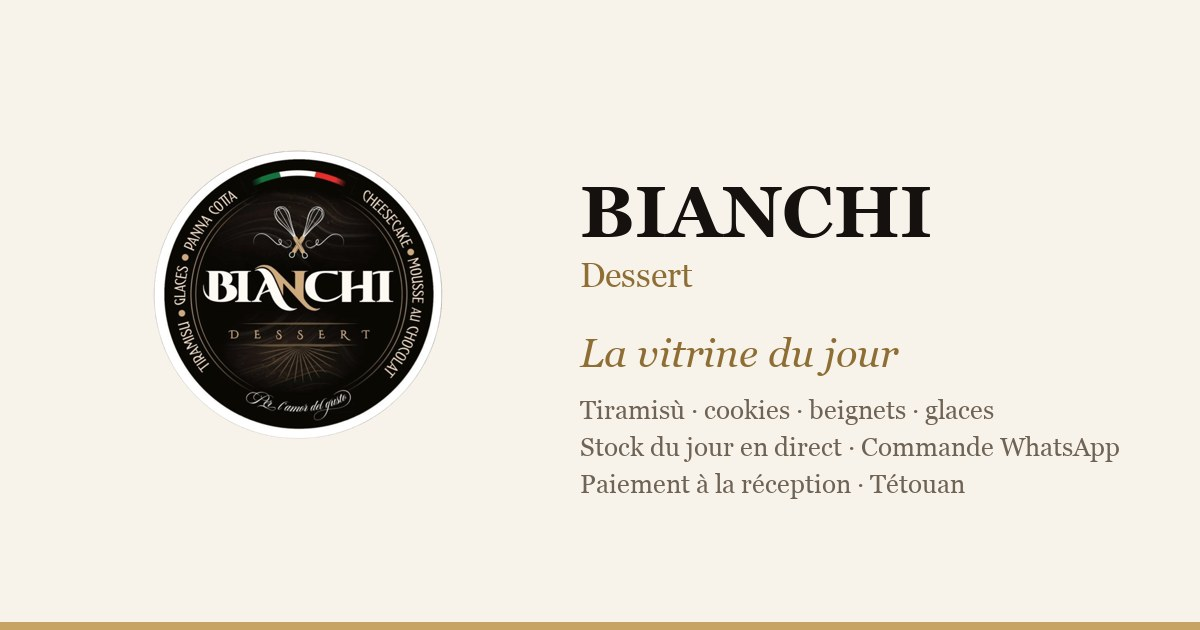
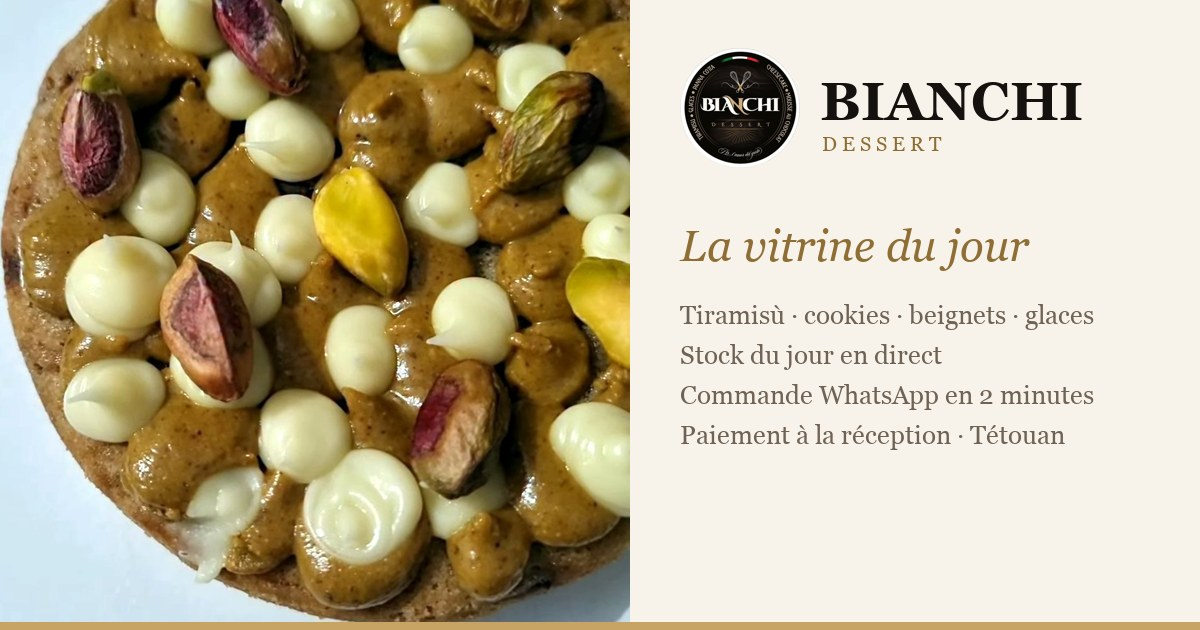
Photos produits issues des reels Instagram, horaires et adresse, image de partage

diff --git a/js/demo-data.js b/js/demo-data.js
@@ -1,14 +1,15 @@
 // Données de démonstration : le catalogue réel de Bianchi au 14/09/2026.
 // En production ces données vivent dans Supabase (voir supabase/schema.sql).
 window.BIANCHI_DEMO = {
+  version: 3,
   parametres: {
     id: 1,
     nom: "Bianchi Dessert",
     slogan: "Per l'amor del gusto",
     whatsapp: "212600000000",
-    adresse: "Tétouan",
+    adresse: "Diar Tamouda – Wiqayah, Tétouan",
     lien_maps: "",
-    horaires: "Commandes tous les jours · 10h00 – 22h00",
+    horaires: "Mardi – Dimanche · 9h – 20h",
     delai_texte: "Retrait ou livraison le jour même selon le stock",
     commandes_ouvertes: true,
     message_ferme: "Les commandes reprennent demain matin. À très vite !",
@@ -27,26 +28,26 @@ window.BIANCHI_DEMO = {
     { id: 6, nom: "Glaces & Cookies glacés", emoji: "🍨", sous_titre: "Préparés à la commande, toujours disponibles", ordre: 6, actif: true },
   ],
   produits: [
-    { id: "p01", categorie_id: 1, nom: "Charlotte aux pommes cannelle", description: "Biscuits cuillère, compotée de pommes à la cannelle et crème légère.", prix: 30, ancien_prix: null, promo_label: "Best-seller", stock: 4, suivre_stock: true, image_url: "", actif: true, ordre: 1, vedette: true },
+    { id: "p01", categorie_id: 1, nom: "Charlotte aux pommes cannelle", description: "Biscuits cuillère, compotée de pommes à la cannelle et crème légère.", prix: 30, ancien_prix: null, promo_label: "Best-seller", stock: 4, suivre_stock: true, image_url: "", actif: true, ordre: 1 },
 
-    { id: "p02", categorie_id: 2, nom: "Mini Beignet Pomme", description: "Beignet moelleux garni de compotée de pommes.", prix: 8, ancien_prix: null, promo_label: "", stock: 3, suivre_stock: true, image_url: "", actif: true, ordre: 1 },
-    { id: "p03", categorie_id: 2, nom: "Mini Beignet Nutella", description: "Beignet moelleux, cœur Nutella généreux.", prix: 8, ancien_prix: null, promo_label: "", stock: 8, suivre_stock: true, image_url: "", actif: true, ordre: 2 },
+    { id: "p02", categorie_id: 2, nom: "Mini Beignet Pomme", description: "Beignet moelleux garni de compotée de pommes.", prix: 8, ancien_prix: null, promo_label: "", stock: 3, suivre_stock: true, image_url: "assets/produits/mini-beignet-pomme.jpg", actif: true, ordre: 1 },
+    { id: "p03", categorie_id: 2, nom: "Mini Beignet Nutella", description: "Beignet moelleux, cœur Nutella généreux.", prix: 8, ancien_prix: null, promo_label: "", stock: 8, suivre_stock: true, image_url: "assets/produits/mini-beignet-nutella.jpg", actif: true, ordre: 2 },
     { id: "p04", categorie_id: 2, nom: "Mini Beignet Spéculoos", description: "Beignet moelleux, crème de spéculoos.", prix: 8, ancien_prix: null, promo_label: "", stock: 0, suivre_stock: true, image_url: "", actif: true, ordre: 3 },
     { id: "p05", categorie_id: 2, nom: "Mini Beignet Bueno", description: "Beignet moelleux, crème noisette façon Bueno.", prix: 8, ancien_prix: null, promo_label: "", stock: 2, suivre_stock: true, image_url: "", actif: true, ordre: 4 },
     { id: "p06", categorie_id: 2, nom: "Mini Beignet Pistache", description: "Beignet moelleux, crème de pistache.", prix: 13, ancien_prix: null, promo_label: "", stock: 0, suivre_stock: true, image_url: "", actif: true, ordre: 5 },
     { id: "p07", categorie_id: 2, nom: "Mini Beignet Framboise", description: "Beignet moelleux, confit de framboise.", prix: 13, ancien_prix: null, promo_label: "", stock: 0, suivre_stock: true, image_url: "", actif: true, ordre: 6 },
-    { id: "p08", categorie_id: 2, nom: "Gros Beignet Nutella", description: "Le grand format, généreusement garni de Nutella.", prix: 15, ancien_prix: null, promo_label: "", stock: 2, suivre_stock: true, image_url: "", actif: true, ordre: 7 },
+    { id: "p08", categorie_id: 2, nom: "Gros Beignet Nutella", description: "Le grand format, généreusement garni de Nutella.", prix: 15, ancien_prix: null, promo_label: "", stock: 2, suivre_stock: true, image_url: "assets/produits/gros-beignet-nutella.jpg", actif: true, ordre: 7 },
 
-    { id: "p09", categorie_id: 3, nom: "Palet Breton", description: "Sablé pur beurre, épais et friable.", prix: 15, ancien_prix: null, promo_label: "", stock: 0, suivre_stock: true, image_url: "", actif: true, ordre: 1 },
-    { id: "p10", categorie_id: 3, nom: "Cookie 3 Chocolats", description: "Chocolat noir, lait et blanc dans une pâte fondante.", prix: 25, ancien_prix: null, promo_label: "", stock: 4, suivre_stock: true, image_url: "", actif: true, ordre: 2 },
-    { id: "p11", categorie_id: 3, nom: "Cookie Praliné Noisette", description: "Cœur coulant praliné noisette maison.", prix: 27, ancien_prix: null, promo_label: "", stock: 0, suivre_stock: true, image_url: "", actif: true, ordre: 3 },
+    { id: "p09", categorie_id: 3, nom: "Palet Breton", description: "Sablé pur beurre aux amandes, épais et friable.", prix: 15, ancien_prix: null, promo_label: "", stock: 3, suivre_stock: true, image_url: "assets/produits/palet-breton.jpg", actif: true, ordre: 1 },
+    { id: "p10", categorie_id: 3, nom: "Cookie 3 Chocolats", description: "Chocolat noir, lait et blanc dans une pâte fondante.", prix: 25, ancien_prix: null, promo_label: "", stock: 4, suivre_stock: true, image_url: "assets/produits/cookie-3-chocolats.jpg", actif: true, ordre: 2 },
+    { id: "p11", categorie_id: 3, nom: "Cookie Praliné Noisette", description: "Cœur coulant praliné noisette maison.", prix: 27, ancien_prix: null, promo_label: "", stock: 4, suivre_stock: true, image_url: "assets/produits/cookie-praline-noisette.jpg", actif: true, ordre: 3 },
     { id: "p12", categorie_id: 3, nom: "Cookie Kinder", description: "Éclats de Kinder et cœur fondant.", prix: 27, ancien_prix: null, promo_label: "", stock: 0, suivre_stock: true, image_url: "", actif: true, ordre: 4 },
-    { id: "p13", categorie_id: 3, nom: "Cookie Praliné Pistache", description: "Cœur coulant praliné pistache.", prix: 29, ancien_prix: null, promo_label: "", stock: 0, suivre_stock: true, image_url: "", actif: true, ordre: 5 },
+    { id: "p13", categorie_id: 3, nom: "Cookie Praliné Pistache", description: "Cœur coulant praliné pistache.", prix: 29, ancien_prix: null, promo_label: "", stock: 5, suivre_stock: true, image_url: "assets/produits/cookie-praline-pistache.jpg", actif: true, ordre: 5 },
 
     { id: "p14", categorie_id: 4, nom: "Tiramisu Nutella", description: "Mascarpone, biscuits imbibés et Nutella.", prix: 20, ancien_prix: null, promo_label: "", stock: 3, suivre_stock: true, image_url: "", actif: true, ordre: 1 },
-    { id: "p15", categorie_id: 4, nom: "Tiramisu Café", description: "Le classique : mascarpone, café et cacao.", prix: 20, ancien_prix: null, promo_label: "", stock: 2, suivre_stock: true, image_url: "", actif: true, ordre: 2 },
+    { id: "p15", categorie_id: 4, nom: "Tiramisu Café", description: "Le classique : mascarpone, café et cacao.", prix: 20, ancien_prix: null, promo_label: "", stock: 2, suivre_stock: true, image_url: "assets/produits/tiramisu-cafe.jpg", actif: true, ordre: 2 },
     { id: "p16", categorie_id: 4, nom: "Tiramisu Mangue / Citron", description: "Version fruitée et acidulée.", prix: 25, ancien_prix: null, promo_label: "", stock: 0, suivre_stock: true, image_url: "", actif: true, ordre: 3 },
-    { id: "p17", categorie_id: 4, nom: "Tiramisu Pistache", description: "Mascarpone et crème de pistache.", prix: 29, ancien_prix: null, promo_label: "", stock: 0, suivre_stock: true, image_url: "", actif: true, ordre: 4 },
+    { id: "p17", categorie_id: 4, nom: "Tiramisu Pistache", description: "Mascarpone et crème de pistache.", prix: 29, ancien_prix: null, promo_label: "Nouveau", stock: 6, suivre_stock: true, image_url: "assets/produits/tiramisu-pistache.jpg", actif: true, ordre: 4, vedette: true },
     { id: "p18", categorie_id: 4, nom: "Mousse au chocolat", description: "Chocolat noir intense, texture aérienne.", prix: 25, ancien_prix: null, promo_label: "", stock: 5, suivre_stock: true, image_url: "", actif: true, ordre: 5 },
 
     { id: "p19", categorie_id: 5, nom: "Cheesecake Lotus", description: "Base spéculoos et nappage Lotus.", prix: 20, ancien_prix: null, promo_label: "", stock: 0, suivre_stock: true, image_url: "", actif: true, ordre: 1 },
@@ -54,12 +55,12 @@ window.BIANCHI_DEMO = {
     { id: "p21", categorie_id: 5, nom: "Cheesecake Oreo", description: "Base et éclats d'Oreo.", prix: 20, ancien_prix: null, promo_label: "", stock: 0, suivre_stock: true, image_url: "", actif: true, ordre: 3 },
     { id: "p22", categorie_id: 5, nom: "Cheesecake Bueno", description: "Crème noisette et éclats de Bueno.", prix: 20, ancien_prix: null, promo_label: "", stock: 0, suivre_stock: true, image_url: "", actif: true, ordre: 4 },
 
-    { id: "p23", categorie_id: 6, nom: "Glace Vanille Bourbon — Petit", description: "Glace artisanale à la vanille Bourbon, petit format.", prix: 12, ancien_prix: null, promo_label: "", stock: null, suivre_stock: false, image_url: "", actif: true, ordre: 1 },
-    { id: "p24", categorie_id: 6, nom: "Glace Vanille Bourbon — Grand", description: "Glace artisanale à la vanille Bourbon, grand format.", prix: 20, ancien_prix: null, promo_label: "", stock: null, suivre_stock: false, image_url: "", actif: true, ordre: 2 },
-    { id: "p25", categorie_id: 6, nom: "Supplément caramel beurre salé — Petit", description: "Nappage caramel beurre salé maison pour votre glace.", prix: 2, ancien_prix: null, promo_label: "", stock: null, suivre_stock: false, image_url: "", actif: true, ordre: 3 },
-    { id: "p26", categorie_id: 6, nom: "Supplément caramel beurre salé — Grand", description: "Nappage caramel beurre salé maison, grand format.", prix: 4, ancien_prix: null, promo_label: "", stock: null, suivre_stock: false, image_url: "", actif: true, ordre: 4 },
-    { id: "p27", categorie_id: 6, nom: "Cookie glacé vanille caramel — Petit", description: "Cookie maison garni de glace vanille et caramel.", prix: 15, ancien_prix: null, promo_label: "", stock: null, suivre_stock: false, image_url: "", actif: true, ordre: 5 },
-    { id: "p28", categorie_id: 6, nom: "Cookie glacé vanille caramel — Grand", description: "Grand cookie garni de glace vanille et caramel.", prix: 28, ancien_prix: null, promo_label: "", stock: null, suivre_stock: false, image_url: "", actif: true, ordre: 6 },
+    { id: "p23", categorie_id: 6, nom: "Glace Vanille Bourbon — Petit", description: "Glace artisanale à la vanille Bourbon, petit format.", prix: 12, ancien_prix: null, promo_label: "", stock: null, suivre_stock: false, image_url: "assets/produits/glace-vanille-petit.jpg", actif: true, ordre: 1 },
+    { id: "p24", categorie_id: 6, nom: "Glace Vanille Bourbon — Grand", description: "Glace artisanale à la vanille Bourbon, grand format.", prix: 20, ancien_prix: null, promo_label: "", stock: null, suivre_stock: false, image_url: "assets/produits/glace-vanille-grand.jpg", actif: true, ordre: 2 },
+    { id: "p25", categorie_id: 6, nom: "Supplément caramel beurre salé — Petit", description: "Nappage caramel beurre salé maison pour votre glace.", prix: 2, ancien_prix: null, promo_label: "", stock: null, suivre_stock: false, image_url: "assets/produits/supplement-caramel.jpg", actif: true, ordre: 3 },
+    { id: "p26", categorie_id: 6, nom: "Supplément caramel beurre salé — Grand", description: "Nappage caramel beurre salé maison, grand format.", prix: 4, ancien_prix: null, promo_label: "", stock: null, suivre_stock: false, image_url: "assets/produits/supplement-caramel.jpg", actif: true, ordre: 4 },
+    { id: "p27", categorie_id: 6, nom: "Cookie glacé vanille caramel — Petit", description: "Cookie maison garni de glace vanille et caramel.", prix: 15, ancien_prix: null, promo_label: "", stock: null, suivre_stock: false, image_url: "assets/produits/cookie-glace-petit.jpg", actif: true, ordre: 5 },
+    { id: "p28", categorie_id: 6, nom: "Cookie glacé vanille caramel — Grand", description: "Grand cookie garni de glace vanille et caramel.", prix: 28, ancien_prix: null, promo_label: "", stock: null, suivre_stock: false, image_url: "assets/produits/cookie-glace-grand.jpg", actif: true, ordre: 6 },
   ],
   bannieres: [
     { id: "b1", titre: "Offre cookies : 3 achetés, le 4ᵉ offert", texte: "Ajoutée automatiquement à votre commande dès 3 cookies.", icone: "4ᵉ", style: "or", actif: true, ordre: 1 },

diff --git a/js/catalogue-traductions.js b/js/catalogue-traductions.js
@@ -53,9 +53,9 @@ window.BIANCHI_TRADUCTIONS = {
     "Édition limitée": { ar: "إصدار محدود", en: "Limited edition", de: "Limitierte Auflage", nl: "Beperkte oplage" },
   },
   parametres: {
-    ar: { horaires: "الطلبات كل يوم · 10:00 – 22:00", delai_texte: "استلام أو توصيل في نفس اليوم حسب المخزون", annonce: "توصيل 10 د.م. في تطوان، مجاني من 60 د.م. · الدفع عند الاستلام · مخزون اليوم مباشر", message_ferme: "تستأنف الطلبات صباح الغد. إلى اللقاء قريباً!" },
-    en: { horaires: "Orders every day · 10:00 – 22:00", delai_texte: "Same-day pick-up or delivery, depending on stock", annonce: "Delivery 10 DH in Tétouan, free from 60 DH · Pay on delivery · Today's stock, live", message_ferme: "Orders resume tomorrow morning. See you soon!" },
-    de: { horaires: "Bestellungen täglich · 10:00 – 22:00", delai_texte: "Abholung oder Lieferung am selben Tag, je nach Bestand", annonce: "Lieferung 10 DH in Tétouan, kostenlos ab 60 DH · Zahlung bei Übergabe · Tagesbestand live", message_ferme: "Bestellungen sind ab morgen früh wieder möglich. Bis bald!" },
-    nl: { horaires: "Bestellingen elke dag · 10:00 – 22:00", delai_texte: "Afhalen of bezorging op dezelfde dag, afhankelijk van de voorraad", annonce: "Bezorging 10 DH in Tétouan, gratis vanaf 60 DH · Betaling bij ontvangst · Voorraad van vandaag, live", message_ferme: "Bestellen kan morgenochtend weer. Tot snel!" },
+    ar: { horaires: "الثلاثاء – الأحد · 9:00 – 20:00", delai_texte: "استلام أو توصيل في نفس اليوم حسب المخزون", annonce: "توصيل 10 د.م. في تطوان، مجاني من 60 د.م. · الدفع عند الاستلام · مخزون اليوم مباشر", message_ferme: "تستأنف الطلبات صباح الغد. إلى اللقاء قريباً!" },
+    en: { horaires: "Tuesday – Sunday · 9am – 8pm", delai_texte: "Same-day pick-up or delivery, depending on stock", annonce: "Delivery 10 DH in Tétouan, free from 60 DH · Pay on delivery · Today's stock, live", message_ferme: "Orders resume tomorrow morning. See you soon!" },
+    de: { horaires: "Dienstag – Sonntag · 9 – 20 Uhr", delai_texte: "Abholung oder Lieferung am selben Tag, je nach Bestand", annonce: "Lieferung 10 DH in Tétouan, kostenlos ab 60 DH · Zahlung bei Übergabe · Tagesbestand live", message_ferme: "Bestellungen sind ab morgen früh wieder möglich. Bis bald!" },
+    nl: { horaires: "Dinsdag – zondag · 9 – 20 u", delai_texte: "Afhalen of bezorging op dezelfde dag, afhankelijk van de voorraad", annonce: "Bezorging 10 DH in Tétouan, gratis vanaf 60 DH · Betaling bij ontvangst · Voorraad van vandaag, live", message_ferme: "Bestellen kan morgenochtend weer. Tot snel!" },
   },
 };

diff --git a/index.html b/index.html
@@ -15,8 +15,8 @@
   <link rel="preconnect" href="https://fonts.googleapis.com">
   <link rel="preconnect" href="https://fonts.gstatic.com" crossorigin>
   <link rel="stylesheet" href="https://fonts.googleapis.com/css2?family=Cormorant+Garamond:ital,wght@0,500;0,600;0,700;1,500;1,600&family=Manrope:wght@400;500;600;700;800&family=Tajawal:wght@400;500;700;800&display=swap">
-  <link rel="stylesheet" href="css/base.css?v=9">
-  <link rel="stylesheet" href="css/site.css?v=9">
+  <link rel="stylesheet" href="css/base.css?v=10">
+  <link rel="stylesheet" href="css/site.css?v=10">
 </head>
 <body>
 
@@ -112,10 +112,10 @@
 
   <script src="https://cdn.jsdelivr.net/npm/@supabase/supabase-js@2.45.4/dist/umd/supabase.min.js"></script>
   <script src="js/config.js"></script>
-  <script src="js/i18n.js?v=9"></script>
+  <script src="js/i18n.js?v=10"></script>
   <script src="js/catalogue-traductions.js"></script>
-  <script src="js/demo-data.js?v=9"></script>
-  <script src="js/data.js?v=9"></script>
-  <script src="js/site.js?v=9"></script>
+  <script src="js/demo-data.js?v=10"></script>
+  <script src="js/data.js?v=10"></script>
+  <script src="js/site.js?v=10"></script>
 </body>
 </html>

diff --git a/js/data.js b/js/data.js
@@ -18,7 +18,7 @@
   function loadLocal() {
     try {
       const s = localStorage.getItem(LS_KEY);
-      if (s) return appliquerTraductions(JSON.parse(s));
+      if (s) { const d = JSON.parse(s); if (d.version === window.BIANCHI_DEMO.version) return appliquerTraductions(d); }
     } catch (e) {}
     return appliquerTraductions(clone(window.BIANCHI_DEMO));
   }
